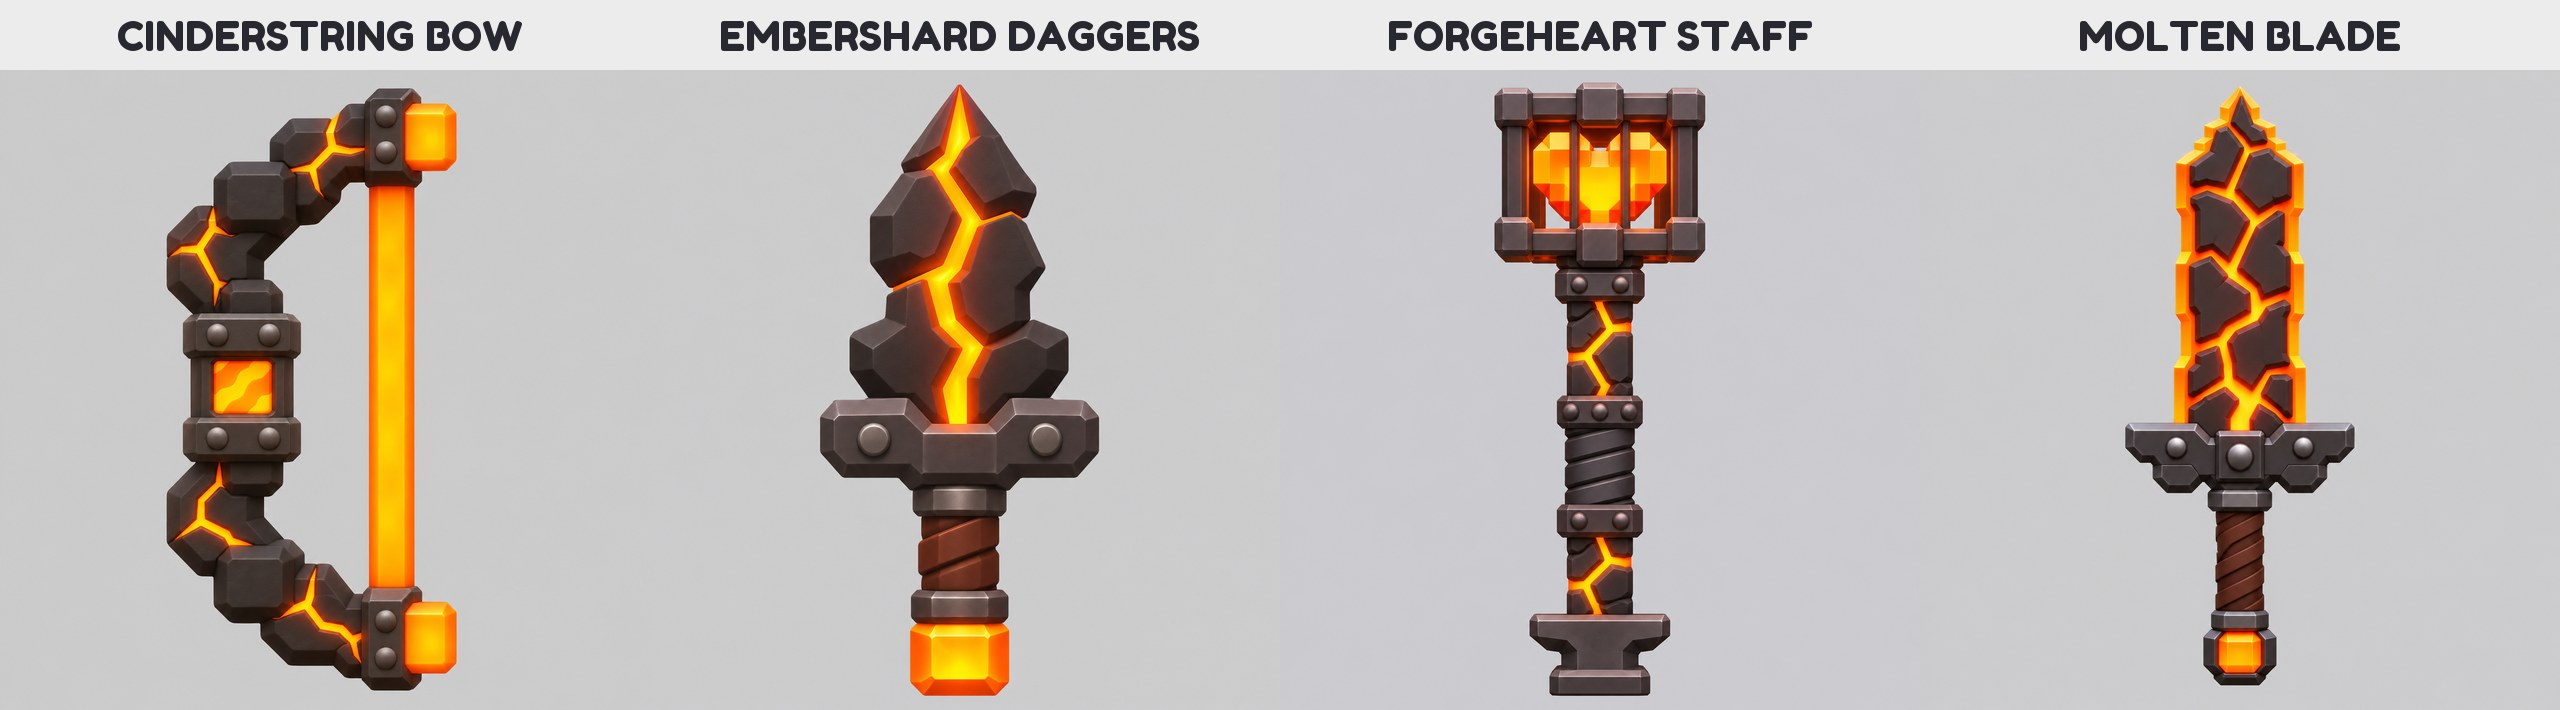
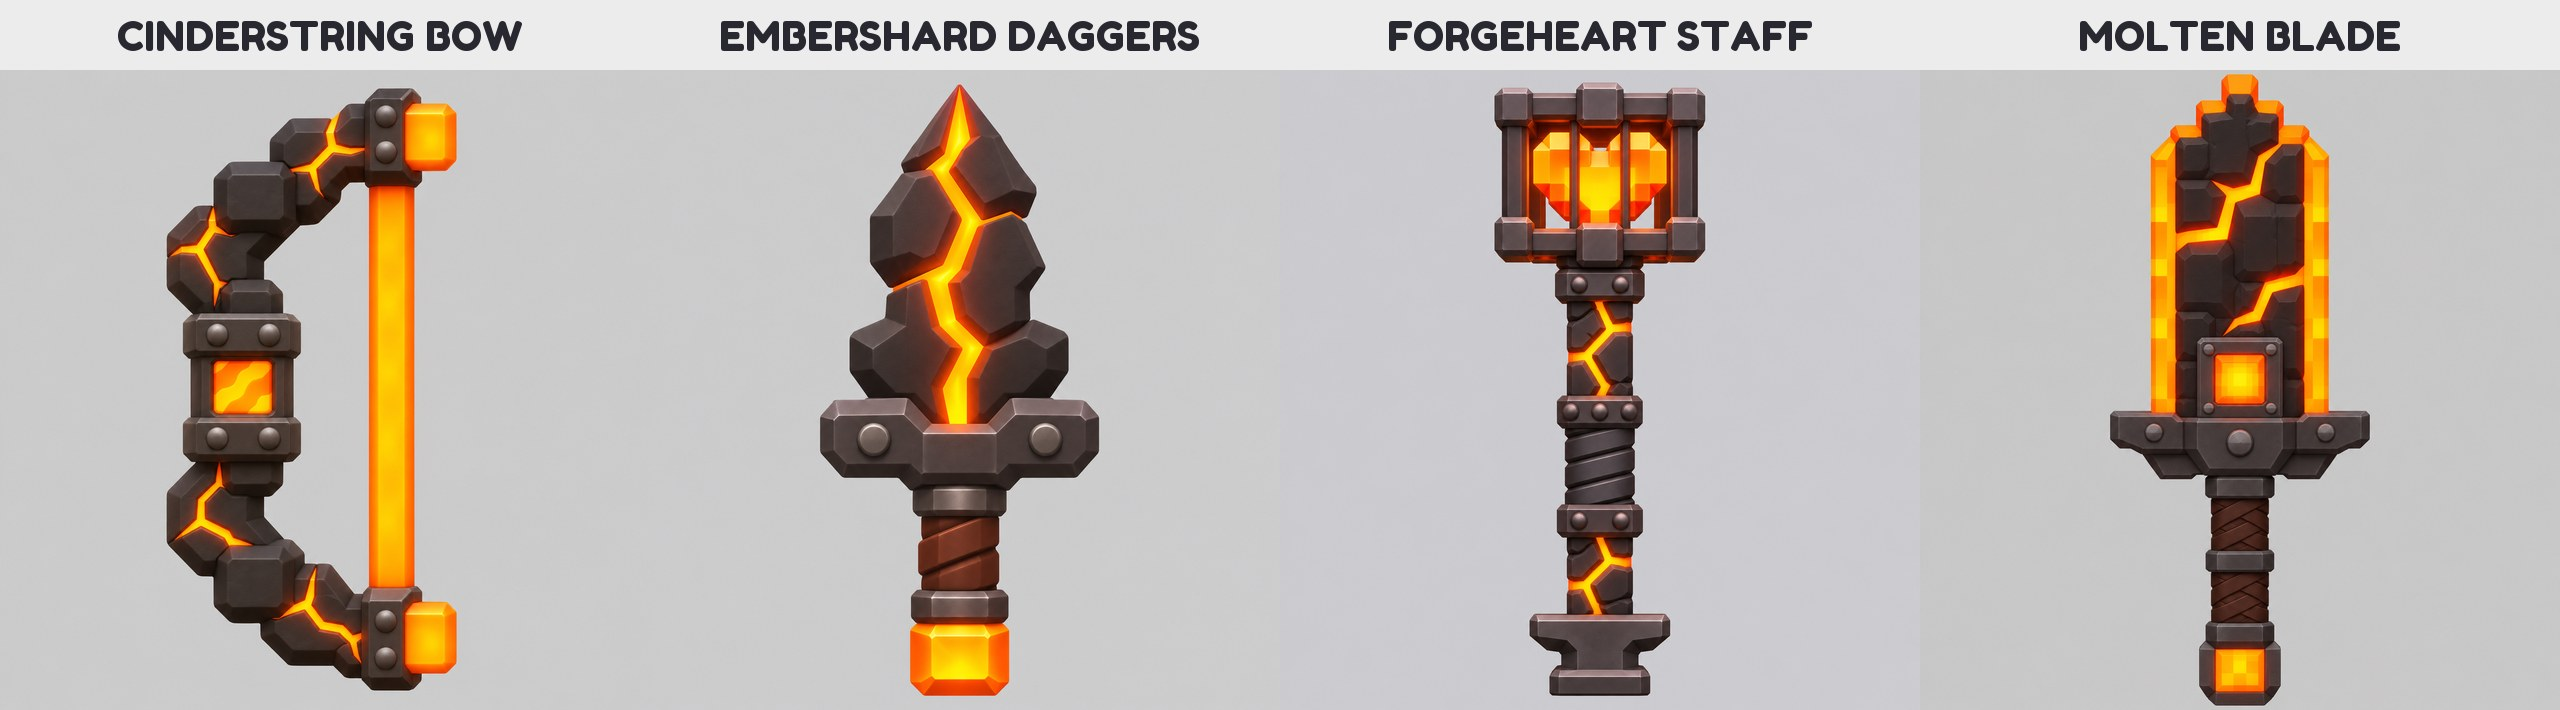
Five themed sets modelled in Tripo, the Molten Blade redrawn broader

Changed region(s): [[0.8125, 0.093, 0.9375, 1.0]]

diff --git a/assets/models/weapons/blocky/themed_sets/drop_loose_parts.py b/assets/models/weapons/blocky/themed_sets/drop_loose_parts.py
@@ -1,0 +1,106 @@
+"""Find, and optionally cut out, loose pieces floating apart from a Tripo model.
+
+    python -I assets/models/weapons/blocky/themed_sets/drop_loose_parts.py <in.glb>            (list)
+    python -I assets/models/weapons/blocky/themed_sets/drop_loose_parts.py <in.glb> <out.glb> <n> ...  (cut)
+
+Tripo sometimes leaves a small piece floating free of the model: the Starwell
+Staff (2026-11-18) came with a pale moon hanging loose behind its head, seen
+only from the side. Faces are grouped into pieces by shared corner positions
+(UV seams split vertices, so corners are matched by place, not index); listed
+biggest first with each piece's box and its gap to the biggest. Cutting
+rewrites only the index list, so the texture and the vertices stay as they
+are (the GLB rewrite is fix_dagger_magenta.py's).
+"""
+
+import json
+import pathlib
+import struct
+import sys
+
+import numpy as np
+
+KIND = {5121: np.uint8, 5123: np.uint16, 5125: np.uint32, 5126: np.float32}
+WIDTH = {"SCALAR": 1, "VEC2": 2, "VEC3": 3, "VEC4": 4}
+
+
+def read(path):
+    raw = pathlib.Path(path).read_bytes()
+    size = struct.unpack("<I", raw[12:16])[0]
+    doc = json.loads(raw[20 : 20 + size])
+    length = struct.unpack("<I", raw[20 + size : 24 + size])[0]
+    return doc, raw[28 + size : 28 + size + length]
+
+
+def accessor(doc, blob, index):
+    a = doc["accessors"][index]
+    view = doc["bufferViews"][a["bufferView"]]
+    start = view.get("byteOffset", 0) + a.get("byteOffset", 0)
+    count = a["count"] * WIDTH[a["type"]]
+    data = np.frombuffer(blob, KIND[a["componentType"]], count, start)
+    return data.reshape(a["count"], WIDTH[a["type"]]) if WIDTH[a["type"]] > 1 else data
+
+
+def pieces(points, faces):
+    key = {}
+    weld = np.array([key.setdefault(tuple(np.round(p, 5)), len(key)) for p in points])
+    parent = list(range(len(key)))
+
+    def find(x):
+        while parent[x] != x:
+            parent[x] = parent[parent[x]]
+            x = parent[x]
+        return x
+
+    for a, b, c in weld[faces]:
+        ra, rb, rc = find(a), find(b), find(c)
+        parent[rb] = ra
+        parent[find(rc)] = ra
+    root = np.array([find(weld[f[0]]) for f in faces])
+    groups = {}
+    for i, r in enumerate(root):
+        groups.setdefault(r, []).append(i)
+    return sorted(groups.values(), key=len, reverse=True)
+
+
+def main():
+    doc, blob = read(sys.argv[1])
+    prim = doc["meshes"][0]["primitives"][0]
+    points = accessor(doc, blob, prim["attributes"]["POSITION"])
+    faces = accessor(doc, blob, prim["indices"]).reshape(-1, 3)
+    groups = pieces(points, faces)
+    main_box = points[faces[groups[0]].ravel()]
+    lo, hi = main_box.min(0), main_box.max(0)
+    for n, g in enumerate(groups[:12]):
+        p = points[faces[g].ravel()]
+        gap = np.maximum(0, np.maximum(lo - p.max(0), p.min(0) - hi))
+        print(f"{n:2} faces {len(g):5}  min {np.round(p.min(0), 3)}  max {np.round(p.max(0), 3)}  gap {np.round(gap, 3)}")
+    print(len(groups), "pieces")
+    if len(sys.argv) < 4:
+        return
+    cut = {i for n in sys.argv[3:] for i in groups[int(n)]}
+    keep = np.array([f for i, f in enumerate(faces) if i not in cut], dtype=np.uint32).ravel()
+    index_view = doc["accessors"][prim["indices"]]["bufferView"]
+    doc["accessors"][prim["indices"]].update(componentType=5125, count=int(keep.size), byteOffset=0)
+    packed = keep.tobytes()
+    out = bytearray()
+    for i, each in enumerate(doc["bufferViews"]):
+        data = packed if i == index_view else blob[each.get("byteOffset", 0) : each.get("byteOffset", 0) + each["byteLength"]]
+        while len(out) % 4:
+            out.append(0)
+        each["byteOffset"] = len(out)
+        each["byteLength"] = len(data)
+        out.extend(data)
+    while len(out) % 4:
+        out.append(0)
+    doc["buffers"][0]["byteLength"] = len(out)
+    text = json.dumps(doc, separators=(",", ":")).encode()
+    text += b" " * (-len(text) % 4)
+    with open(sys.argv[2], "wb") as file:
+        file.write(struct.pack("<4sII", b"glTF", 2, 12 + 8 + len(text) + 8 + len(out)))
+        file.write(struct.pack("<I4s", len(text), b"JSON") + text)
+        file.write(struct.pack("<I4s", len(out), b"BIN\x00") + bytes(out))
+    print(f"cut {len(cut)} faces, kept {keep.size // 3}")
+
+
+if __name__ == "__main__":
+    main()

diff --git a/assets/concepts/blocky/weapons/skins/sets/set_prompts.py b/assets/concepts/blocky/weapons/skins/sets/set_prompts.py
@@ -415,13 +415,19 @@ SETS = {
             ),
             (
                 "molten_blade", "MOLTEN BLADE", "greatsword", "golden_blade.png",
-                "a big heroic two-edged greatsword, symmetrical left to right, NOT a cleaver: a long "
-                "broad blade of cracked matte black rock with bright orange-yellow lava glowing "
-                "through a web of chunky cracks, both cutting edges glowing orange-hot, ending in a "
-                "pointed tip built of three centred steps; the guard is a wide dark iron anvil "
-                "shape with round rivets; a grip long enough for two hands wrapped in dark leather "
-                "with iron rings; the pommel is a glowing molten orange cube in an iron cap; the "
-                "blade is about three times as long as the grip",
+                # redrawn (owner, 2026-11-18: "the last one should be redrawn"): the first
+                # take was a narrow blade, not a greatsword
+                "a big heroic two-edged greatsword, symmetrical left to right, NOT a cleaver and "
+                "NOT a narrow sword: a huge, very BROAD, heavy slab of a blade, nearly as wide as the "
+                "guard and about five grip widths wide all the way up, so the whole prop looks "
+                "twice as chunky as an ordinary sword, then ending in a wide pointed tip built of "
+                "three centred steps; the blade is about four times as long as the grip; the blade is cracked matte black "
+                "rock with bright orange-yellow lava glowing through a few big chunky cracks, and a "
+                "thick glowing orange-hot band runs up both cutting edges; set in the blade just "
+                "above the guard is a big square glowing molten core in an iron frame; the guard is "
+                "a wide dark iron anvil shape, wider than the blade, with round rivets; a grip long "
+                "enough for two hands wrapped in dark leather with iron rings; the pommel is a "
+                "glowing molten orange cube in an iron cap",
             ),
             (
                 "embershard_daggers", "EMBERSHARD DAGGERS", "dagger", "golden_daggers.png",

diff --git a/docs/WEAPONS-THEMED.md b/docs/WEAPONS-THEMED.md
@@ -90,6 +90,8 @@ owner's yes on its pictures. Names and looks are proposals until then.
 | **Lantern Bloom** | spring festival: pale wood, red paper lanterns, pink blossoms, gold bells, red cord and tassels | Blossom Bow, Paperglow Staff, Petalfall Blade, Bellchime Daggers |
 | **Cinderforge** | volcano forge: cracked black rock with lava seams, iron bands and rivets, molten cubes | Cinderstring Bow, Forgeheart Staff, Molten Blade (an anvil guard), Embershard Daggers |
 
+**Modelled (2026-11-18, owner: "the last one should be redrawn, the rest are good"):** Tumbleweed, Splash Day, Coin-Op, Voidglass and Lantern Bloom, 20 Tripo models (1,300 credits, 3,160 left; jobs in `assets/models/weapons/blocky/themed_sets_tripo_2026_11_18.json`), named in `Downloads	hemed_sets_import` for the owner's import. Every model was rendered from four sides; the Starwell Staff came with a loose moon floating behind its head, cut out by `assets/models/weapons/blocky/themed_sets/drop_loose_parts.py`. Cinderforge waits for the owner's look at its redrawn Molten Blade (broader; earlier takes in `cinderforge/options/`).
+
 Each prompt names what the set must not have (faces, skulls, characters and the like) so it
 stays a toy of this game's own and never reads as another game's line.
 
